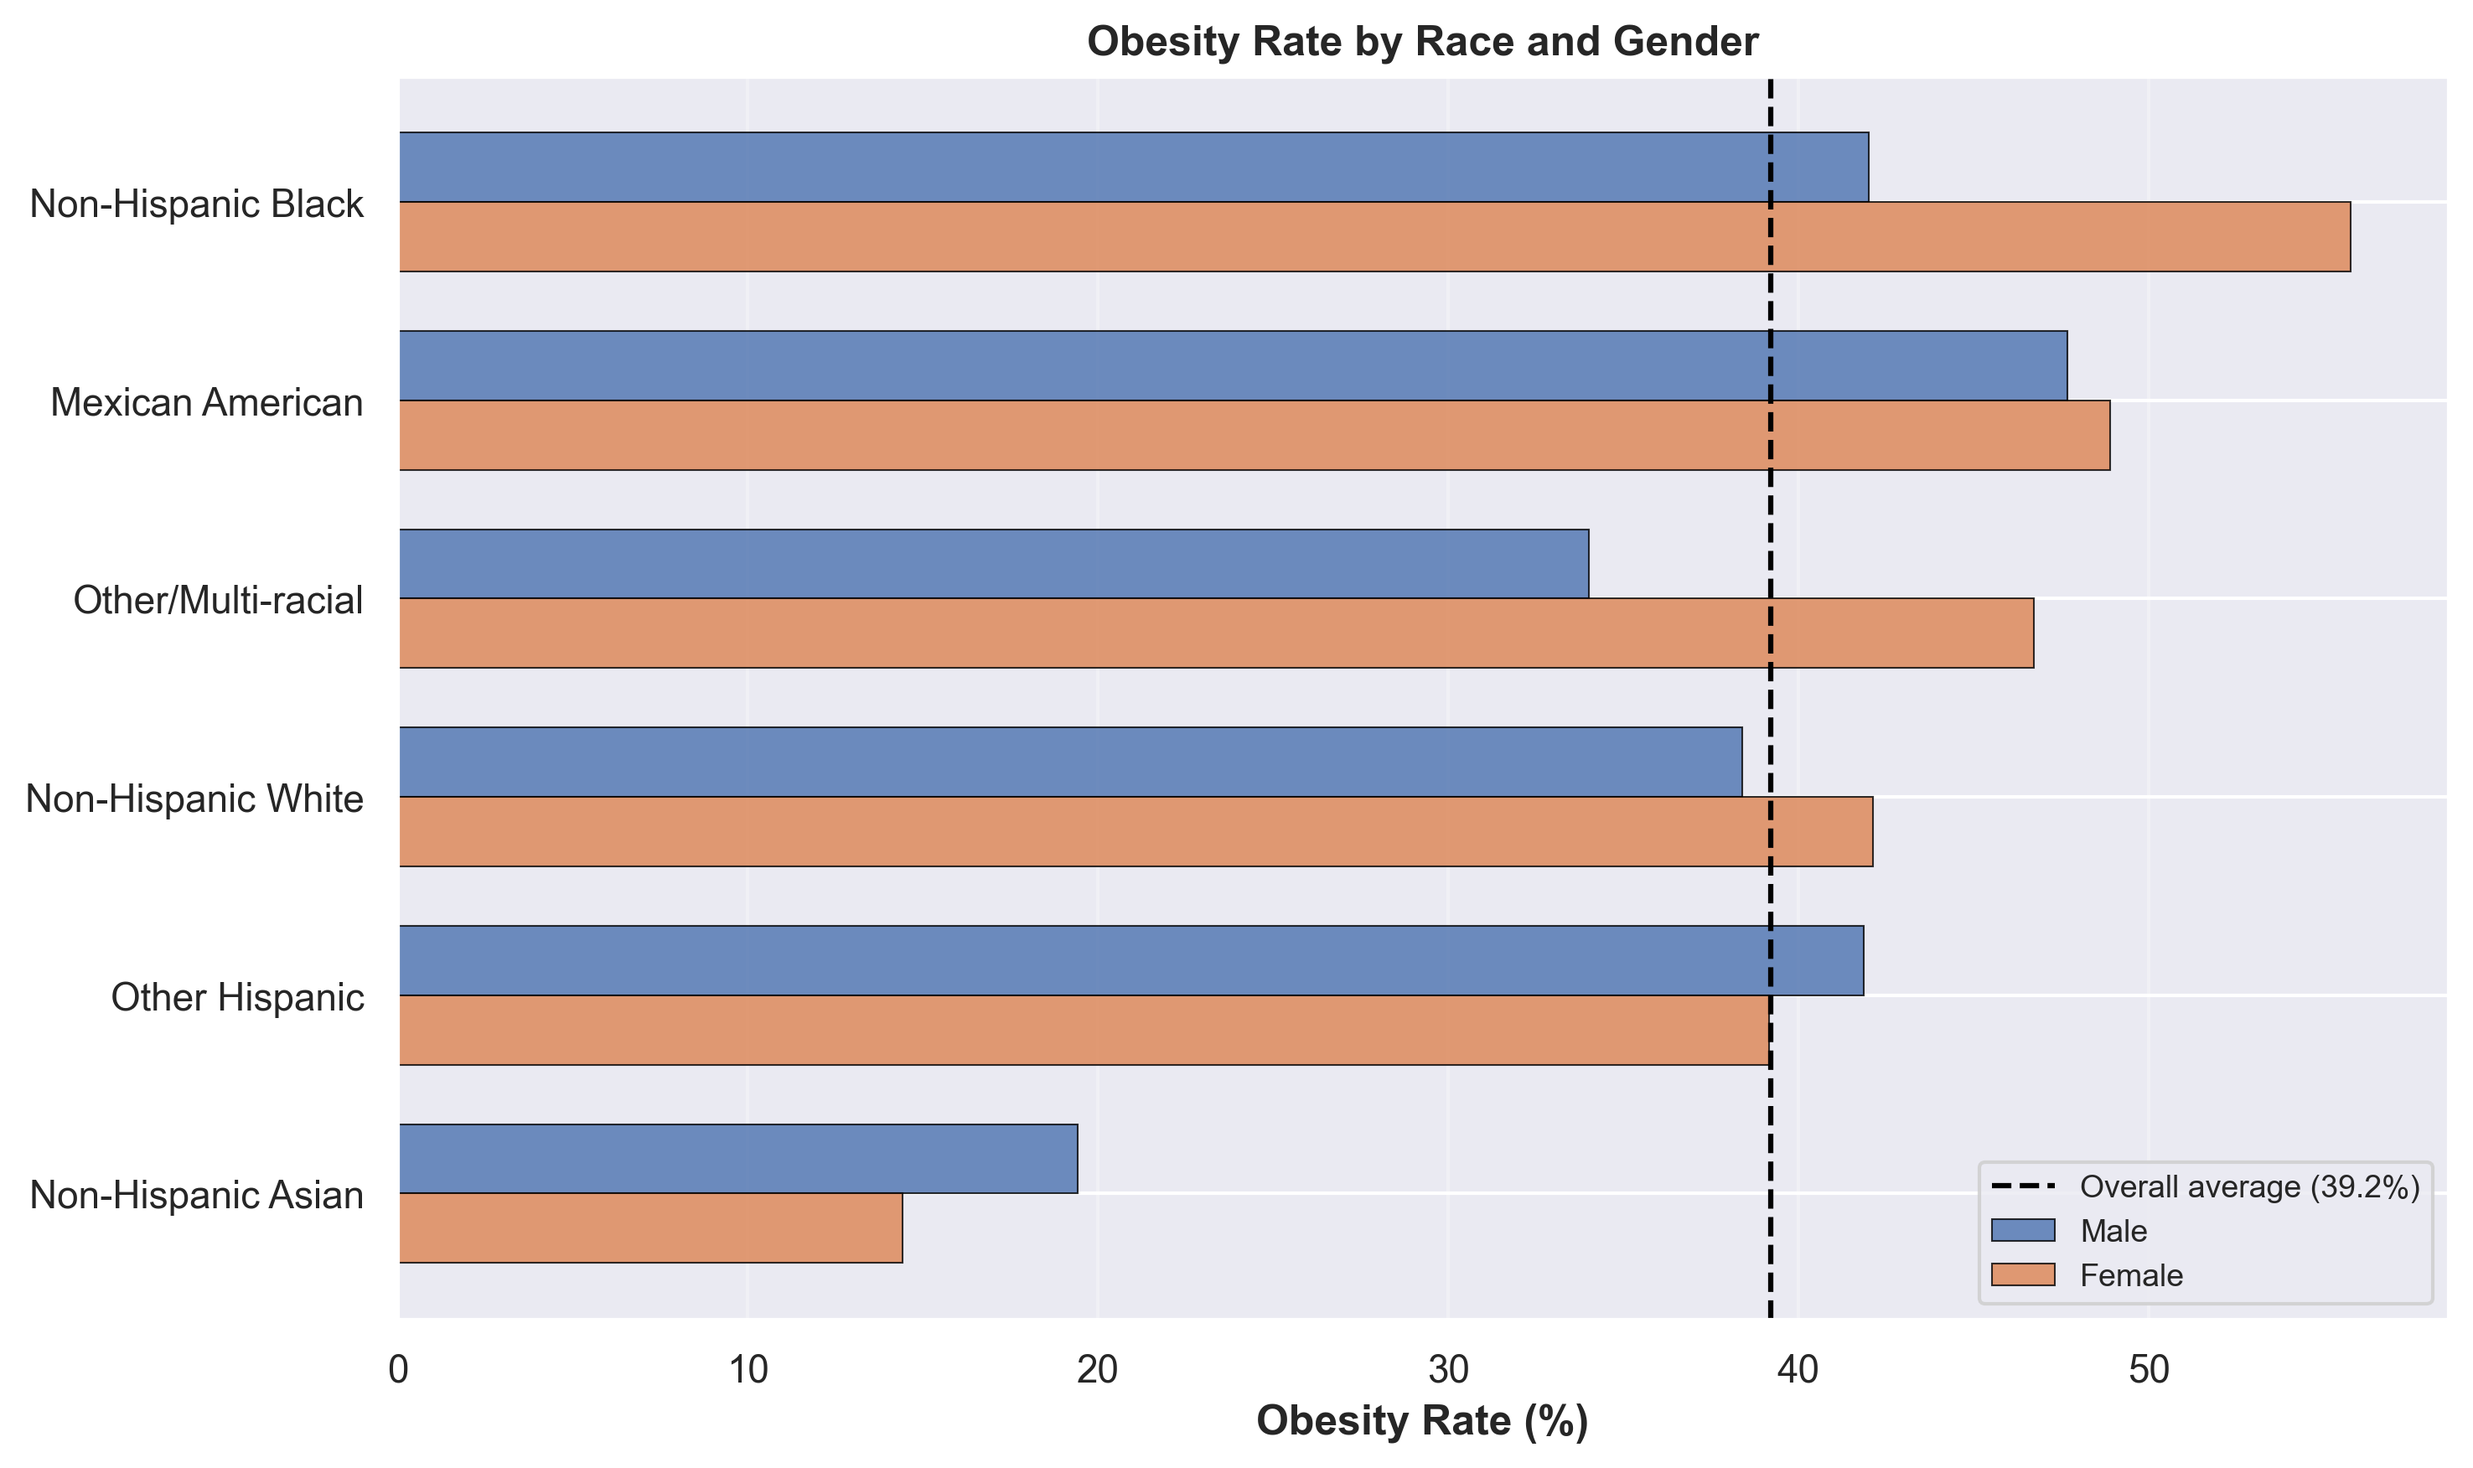
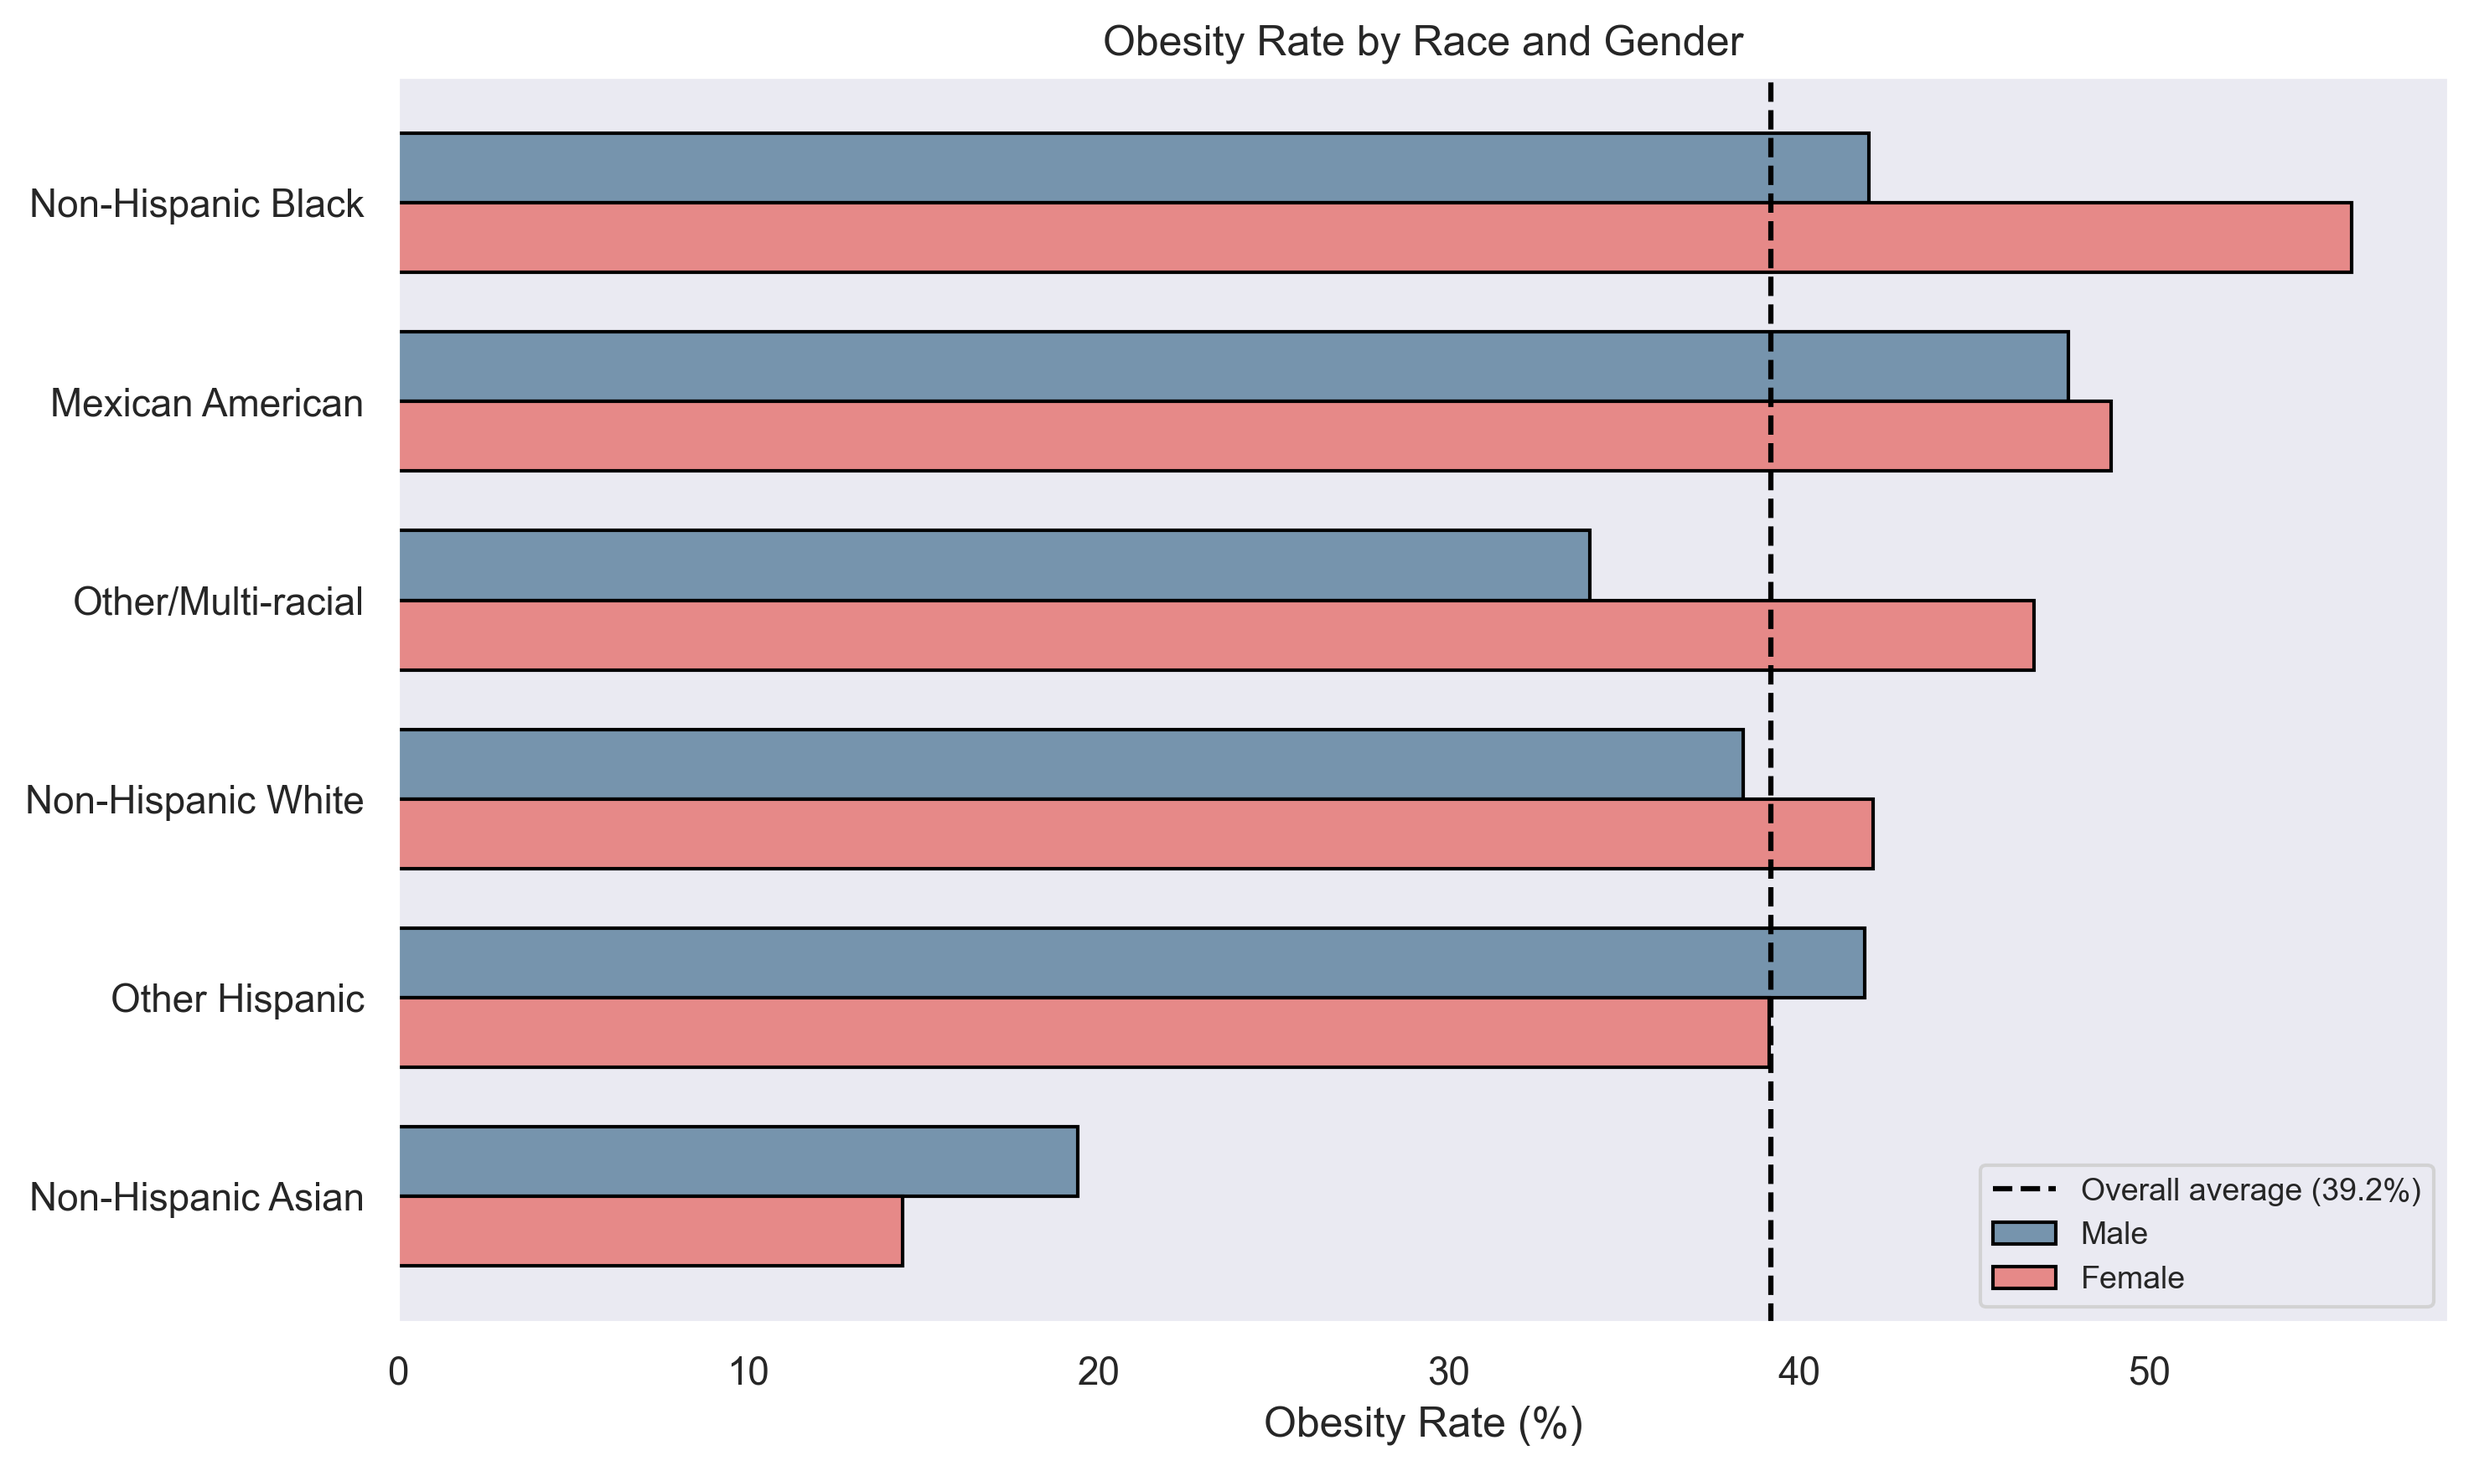
cosmetic color changes for visualizations

diff --git a/NHANES_BMI_Demographic_Analysis.py b/NHANES_BMI_Demographic_Analysis.py
@@ -75,12 +75,12 @@ def plot_obesity_rate_by_race(df):
     obesity_by_race = obesity_by_race.reindex(race_order)
 
     fig, ax = plt.subplots(figsize = (10, 6))
-    ax.barh(race_order, obesity_by_race.values, alpha = 0.8, edgecolor = 'black', linewidth = 0.5)
+    ax.barh(race_order, obesity_by_race.values, color = "#7694AD", edgecolor = 'black', linewidth = 0.5)
     ax.axvline(x = obesity_by_race.mean(), color = 'black', linestyle = '--', label = f'Average ({obesity_by_race.mean():.1f}%)')
     ax.set_xlabel('Obesity Rate (%)', fontweight = 'bold')
     ax.set_title('Obesity Rate by Race', fontweight = 'bold')
     ax.legend(fontsize = 9)
-    ax.grid(axis = 'x', alpha = 0.3)
+    ax.grid()
     plt.tight_layout()
     plt.savefig('ds2500-project/Visualizations/obesity_rate_by_race.png', dpi = 300, bbox_inches = 'tight')
     plt.show()
@@ -98,12 +98,11 @@ def plot_weight_category_by_race(df):
 
     fig, ax = plt.subplots(figsize = (10, 6))
     weight_pct.plot(kind = 'barh', stacked = True, ax = ax,
-                    color = ["#b8e4ff", "#7080fa", "#563cc6", "#27003F"],
-                    alpha = 0.8, edgecolor = 'black', linewidth = 0.3)
+                    color = ["#2C4459", "#43627C", "#7694AD", "#e68988"],
+                    edgecolor = 'black', linewidth = 0.3)
     ax.set_xlabel('Percentage (%)', fontweight = 'bold')
     ax.set_title('Weight Category Distribution by Race', fontweight = 'bold')
     ax.legend(title = 'Weight Category', bbox_to_anchor = (1.05, 1), loc = 'lower right', fontsize = 9)
-    ax.grid(axis = 'x', alpha = 0.3)
     plt.tight_layout()
     plt.savefig('ds2500-project/Visualizations/weight_category_by_race.png', dpi = 300, bbox_inches = 'tight')
     plt.show()
@@ -117,7 +116,7 @@ def plot_nutrient_intake_by_race(df):
     titles     = ['Average Calorie Intake', 'Average Fiber Intake', 'Average Sugar Intake', 'Average Saturated Fat Intake']
     xlabels    = ['Calories (kcal)', 'Fiber (g)', 'Sugar (g)', 'Saturated Fat (g)']
     guidelines = [2000, 25, 50, 20]
-    colors     = ["#b8e4ff", "#7080fa", "#563cc6", "#27003F"]
+    colors     = ["#2C4459", "#43627C", "#7694AD", "#9AB7CF"]
 
     fig, axes = plt.subplots(2, 2, figsize = (18, 12))
 
@@ -128,7 +127,7 @@ def plot_nutrient_intake_by_race(df):
         ax.set_xlabel(xlabel, fontweight = 'bold')
         ax.set_title(title, fontweight = 'bold')
         ax.legend(fontsize = 9)
-        ax.grid(axis = 'x', alpha = 0.3)
+        ax.grid()
 
     plt.suptitle('Nutrient Intake by Race', fontsize = 14, fontweight = 'bold')
     plt.tight_layout()
@@ -143,7 +142,7 @@ def plot_bmi_by_calorie_quartile_and_race(df):
     pivot = df.groupby(['Race', 'Calorie_Quartile'], observed = True)['BMXBMI'].mean().unstack()
     
     fig, ax = plt.subplots(figsize = (12, 6))
-    pivot.plot(kind = 'bar', ax = ax, colormap = 'coolwarm', alpha = 0.8, edgecolor = 'black', linewidth = 0.5)
+    pivot.plot(kind = 'bar', ax = ax, colormap = 'coolwarm', edgecolor = 'black', linewidth = 0.5)
     ax.axhline(y = 30, color = 'black', linestyle = '--', label = 'Obesity threshold')
     ax.set_xlabel('Race', fontweight = 'bold')
     ax.set_ylabel('Mean BMI', fontweight = 'bold')
@@ -156,15 +155,15 @@ def box_plot_bmi_race(df):
     race_order = ['Non-Hispanic Asian', 'Other Hispanic', 'Non-Hispanic White',
                   'Other/Multi-racial', 'Mexican American', 'Non-Hispanic Black']
 
-    fig, ax = plt.subplots(figsize=(10, 6))
-    sns.boxplot(data=df, x="BMXBMI", y="Race", order=race_order,
-                palette="Set2", ax=ax)
-    ax.axvline(x=30, color='black', linestyle='--', label='Obesity threshold (BMI 30)')
-    ax.set_xlabel('BMI', fontweight='bold')
-    ax.set_title('BMI Distribution by Race', fontweight='bold')
-    ax.legend(fontsize=9)
+    fig, ax = plt.subplots(figsize = (10, 6))
+    sns.boxplot(data = df, x = "BMXBMI", y = "Race", order = race_order,
+                palette = ["#2C4459", "#43627C", "#7694AD", "#9AB7CF"], ax = ax)
+    ax.axvline(x = 30, color = 'black', linestyle = '--', label = 'Obesity threshold (BMI 30)')
+    ax.set_xlabel('BMI', fontweight = 'bold')
+    ax.set_title('BMI Distribution by Race', fontweight = 'bold')
+    ax.legend(fontsize = 9)
     plt.tight_layout()
-    plt.savefig('ds2500-project/Visualizations/bmi_boxplot_by_race.png', dpi=300, bbox_inches='tight')
+    plt.savefig('ds2500-project/Visualizations/bmi_boxplot_by_race.png', dpi = 300, bbox_inches = 'tight')
     plt.show()
     
 def plot_obesity_rate_by_race_and_gender(df):
@@ -174,25 +173,25 @@ def plot_obesity_rate_by_race_and_gender(df):
     obesity_by_race_gender = df.groupby(['Race', 'Gender'])['Obese'].mean() * 100
     obesity_by_race_gender = obesity_by_race_gender.unstack()
 
-    fig, ax = plt.subplots(figsize=(10, 6))
+    fig, ax = plt.subplots(figsize = (10, 6))
     x = np.arange(len(race_order))
     width = 0.35
 
     bars_m = ax.barh(x + width/2, obesity_by_race_gender.reindex(race_order)['Male'],
-                     width, label='Male', alpha=0.8, edgecolor='black', linewidth=0.5)
+                     width, label = 'Male', color = "#7694AD", edgecolor = 'black')
     bars_f = ax.barh(x - width/2, obesity_by_race_gender.reindex(race_order)['Female'],
-                     width, label='Female', alpha=0.8, edgecolor='black', linewidth=0.5)
+                     width, label = 'Female', color = "#e68988", edgecolor = 'black')
 
-    ax.axvline(x=obesity_by_race_gender.values.mean(), color='black', linestyle='--',
-               label=f'Overall average ({obesity_by_race_gender.values.mean():.1f}%)')
+    ax.axvline(x = obesity_by_race_gender.values.mean(), color = 'black', linestyle = '--',
+               label = f'Overall average ({obesity_by_race_gender.values.mean():.1f}%)')
     ax.set_yticks(x)
     ax.set_yticklabels(race_order)
-    ax.set_xlabel('Obesity Rate (%)', fontweight='bold')
-    ax.set_title('Obesity Rate by Race and Gender', fontweight='bold')
-    ax.legend(fontsize=9)
-    ax.grid(axis='x', alpha=0.3)
+    ax.set_xlabel('Obesity Rate (%)')
+    ax.set_title('Obesity Rate by Race and Gender')
+    ax.legend(fontsize = 9)
+    ax.grid()
     plt.tight_layout()
-    plt.savefig('ds2500-project/Visualizations/obesity_rate_by_race_gender.png', dpi=300, bbox_inches='tight')
+    plt.savefig('ds2500-project/Visualizations/obesity_rate_by_race_gender.png', dpi = 300, bbox_inches = 'tight')
     plt.show()
     
 
@@ -201,8 +200,8 @@ def main():
     plot_weight_category_by_race(df)
     plot_nutrient_intake_by_race(df)
     box_plot_bmi_race(df)
-    plot_obesity_rate_by_race_and_gender(df)
     # plot_bmi_by_calorie_quartile_and_race(df)
+    plot_obesity_rate_by_race_and_gender(df)
 
 
 if __name__ == '__main__':
